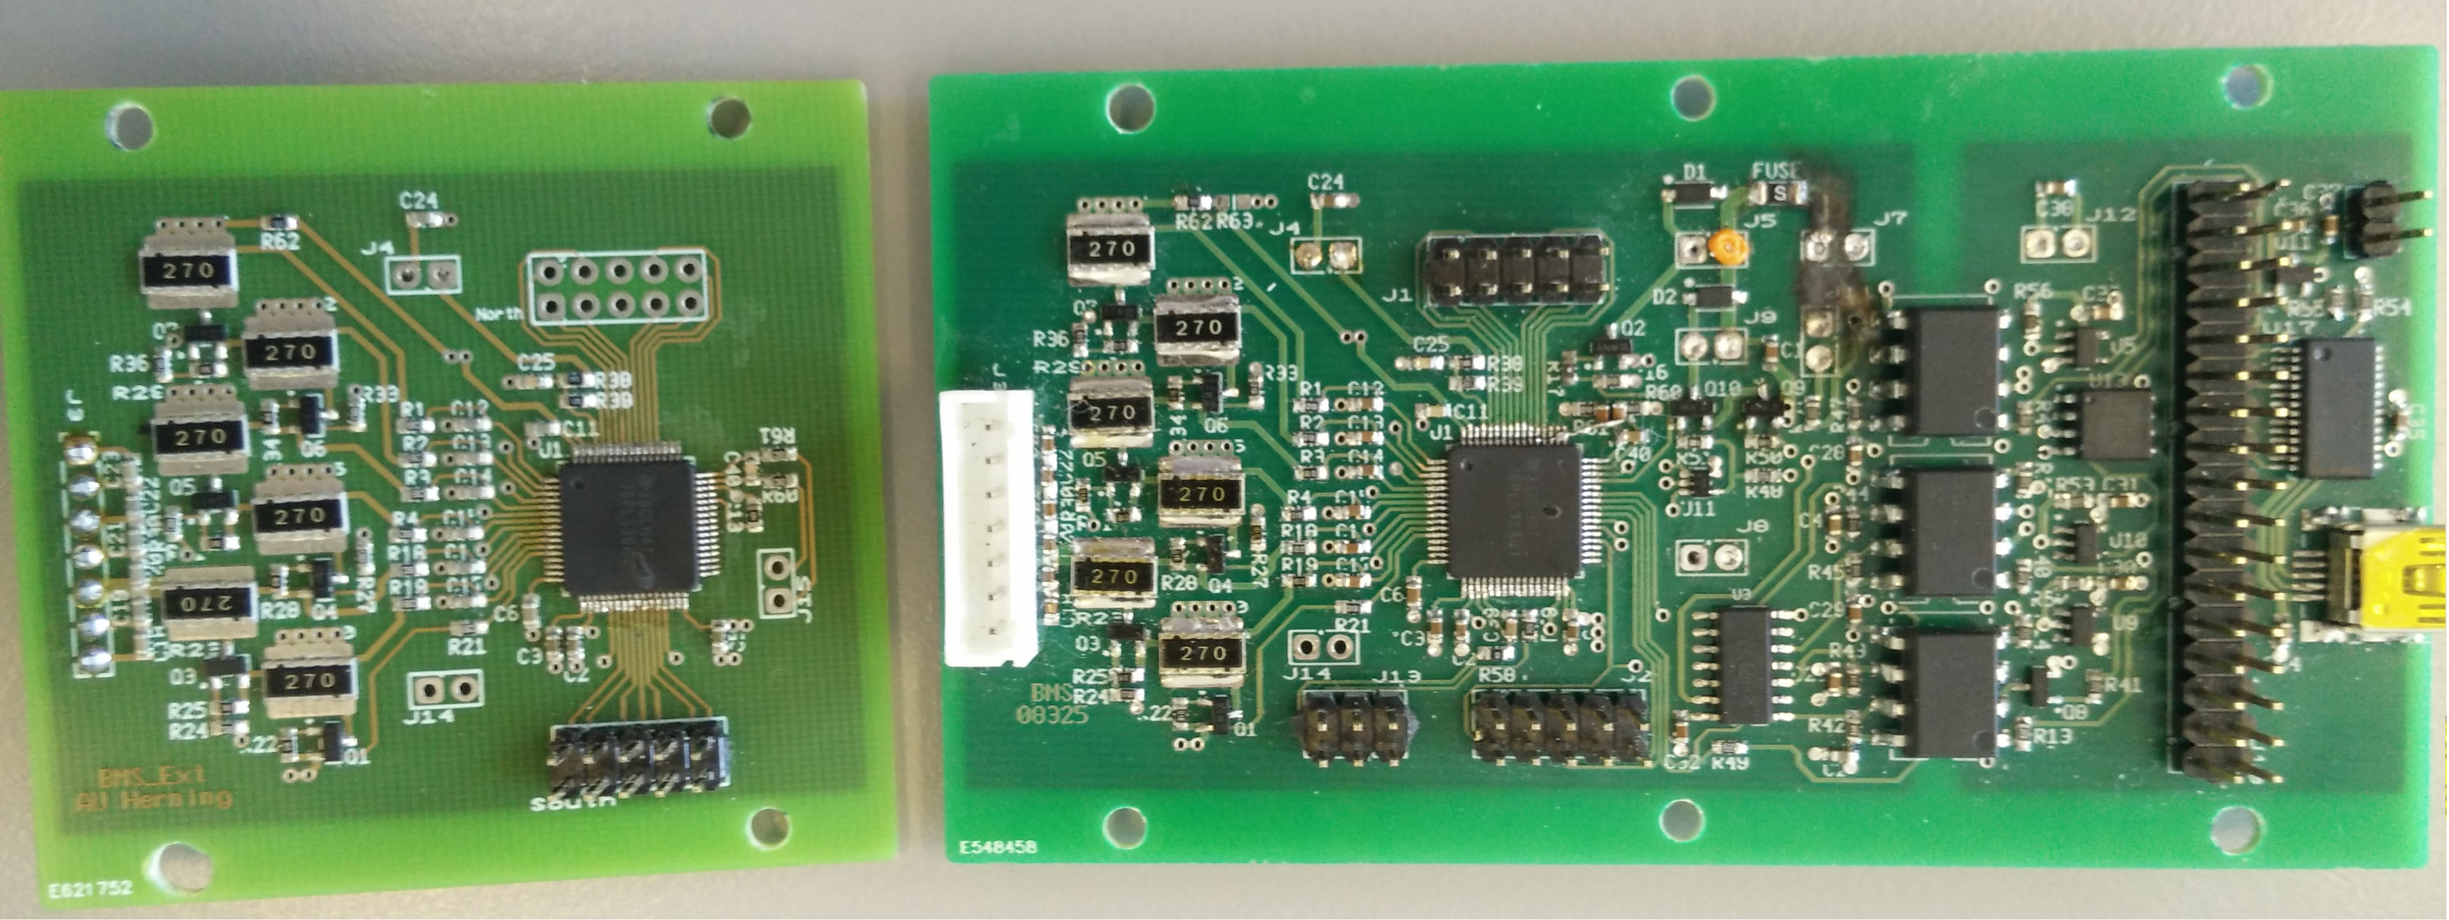
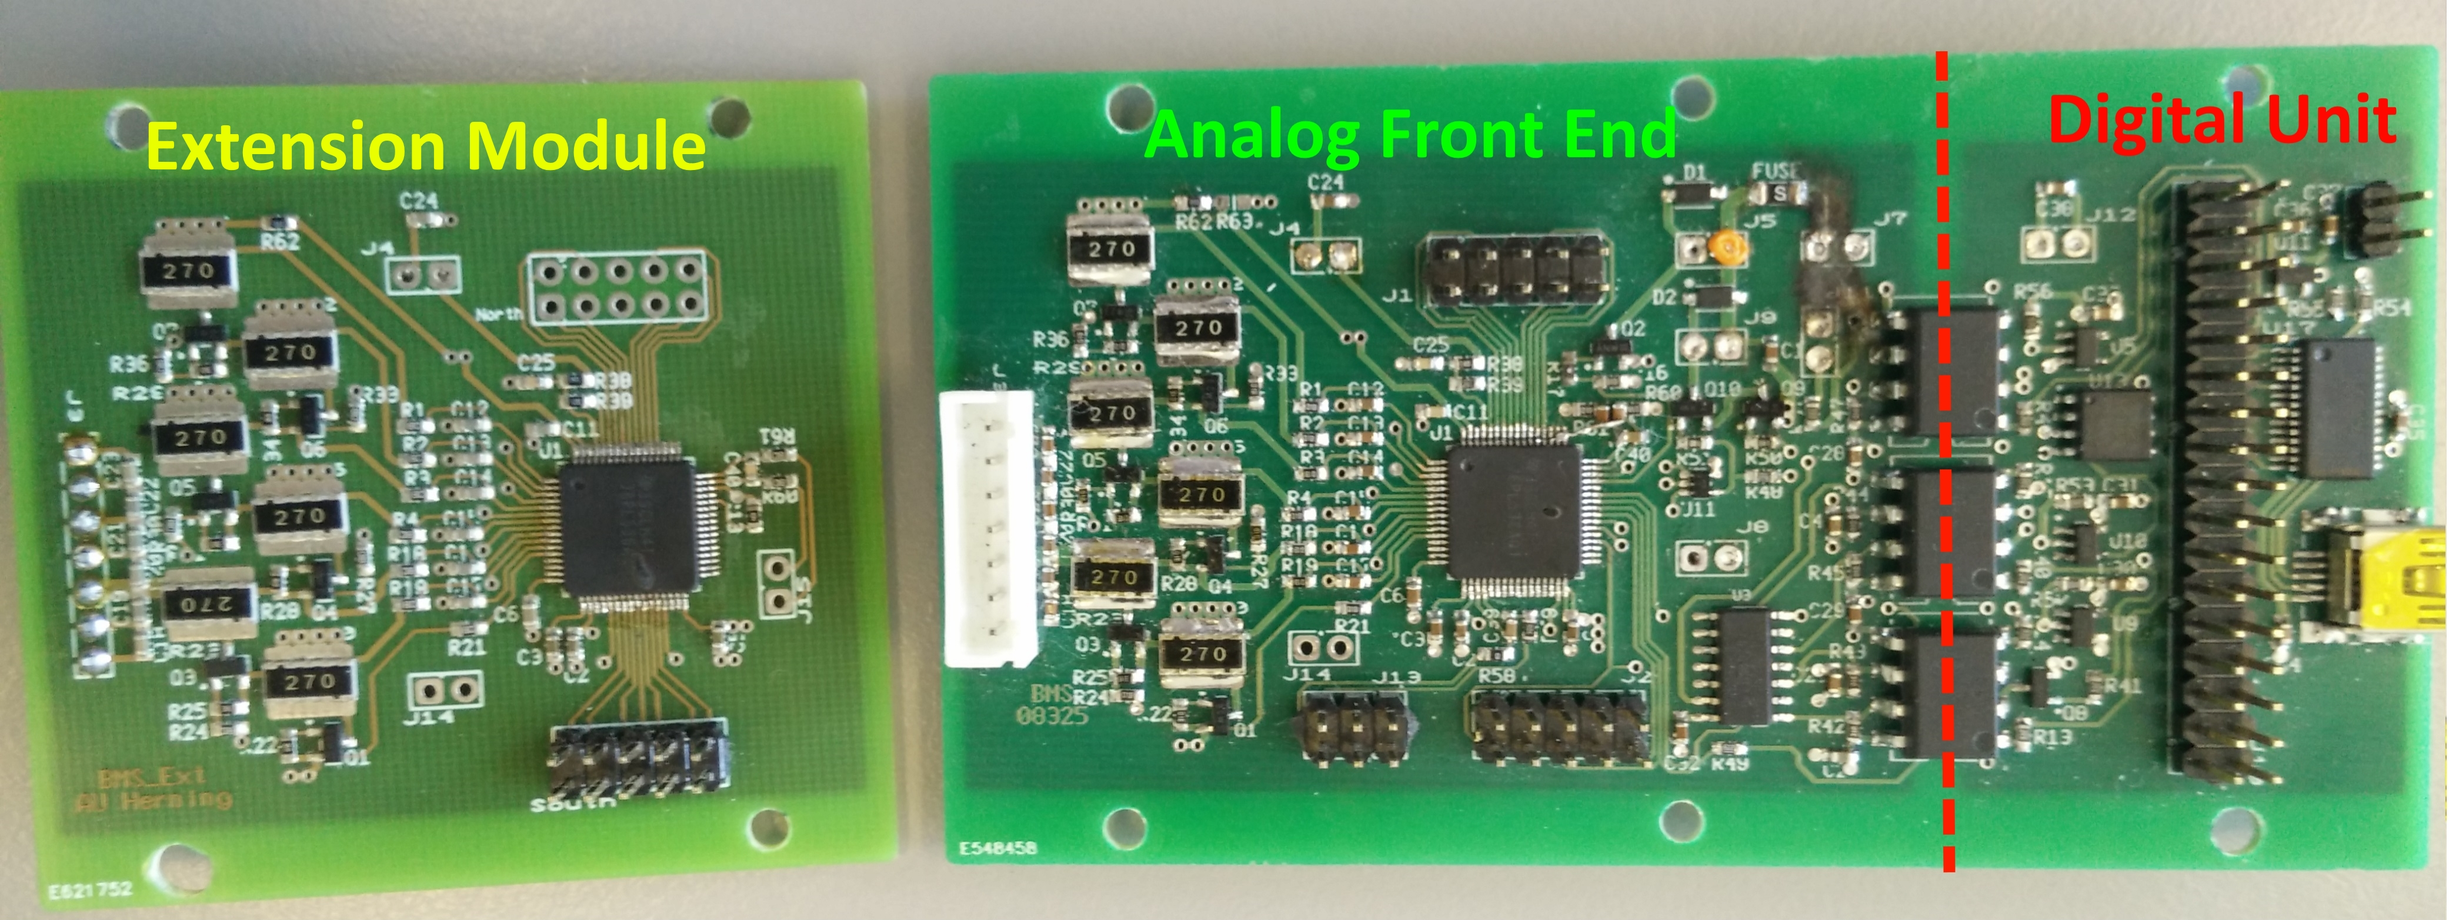
fixes

diff --git a/Latex/Documentation_AU2/Hardware/BMS.tex b/Latex/Documentation_AU2/Hardware/BMS.tex
@@ -62,10 +62,10 @@ Now every circuit block will be elaborated on its functionality and how it all f
 \subsubsection{Anti-aliasing filters and cell balancing}
 The anti-aliasing filters are there to decrease unwanted AC noise and they're placed very near their respective ADC inputs. The filters are traditional 1. order RC low-pass filters and they are implemented with respects to the Battery Monitor IC, which will be discussed in a moment.\\
 The balancing circuit is connected to the Battery Monitor IC where it has outputs that are capable of controlling balancing of the cells. This process can be initialized by the Digital Unit if given parameters exceed a specific threshold.\\
-There are two different instances where the cells can be balanced. This can be done either by connecting a charger to handle the balancing of the cells - this includes both discharging and charging. However, when no charger is connected the cells can only be balanced by discharging each individual cell. This is done to keep the cells within the recommended safe operation area, which is in between 3-4.2V.
+There are two different instances where the cells can be balanced. This can be done either by connecting a charger to handle the balancing of the cells - this includes both discharging and charging. However, when no charger is connected the cells can only be balanced by discharging each individual cell. This is done to keep the cells within the recommended SOA, which is in between 3-4.2V.
 
 \subsubsection{Battery Monitor IC}
-The heart of the BMS is the bq76PL536A-Q1 Battery Monitoring IC (new chip used since 2014 instead of the one on figure \vref{fig:frontendOverview}). It was chosen as it offers very low quiescent current, secondary protection, high precision voltage measurements and has the choice of stacking several IC's to attain support of a respective number of cells. The core functionality of this said chip is that it can receive and handle a lot of commands at the same time. As you see on figure \vref{fig:frontendOverview} it's connected to several circuits. Its job is, among other things, to receive a vast amount of data from its surroundings / connected circuits. Example of data could be data requests from the Digital Unit, cell voltages, current sensor signal, cell temperature signal balancing requests from the Digital Unit and more. With all of this data the Battery Monitoring IC converts this data through its ADC's where it sends them off to the Digital Unit. It can also perform the balancing if it receives a request. Furthermore, it is possible for it to drive the Isolation Switch, which means that in an event where the safe operation area is exceeded, it can cut off the power from the battery supply to the rest of the vehicle.
+The heart of the BMS is the bq76PL536A-Q1 Battery Monitoring IC (new chip used since 2014 instead of the one on figure \vref{fig:frontendOverview}). It was chosen as it offers very low quiescent current, secondary protection, high precision voltage measurements and has the choice of stacking several IC's to attain support of a respective number of cells. The core functionality of this said chip is that it can receive and handle a lot of commands at the same time. As you see on figure \vref{fig:frontendOverview} it's connected to several circuits. Its job is, among other things, to receive a vast amount of data from its surroundings / connected circuits. Example of data could be data requests from the Digital Unit, cell voltages, current sensor signal, cell temperature signal balancing requests from the Digital Unit and more. With all of this data the Battery Monitoring IC converts this data through its ADC's where it sends them off to the Digital Unit. It can also perform the balancing if it receives a request. Furthermore, it is possible for it to drive the Isolation Switch, which means that in an event where the SOA is exceeded, it can cut off the power from the battery supply to the rest of the vehicle.
 
 \subsubsection{Temperature sensor}
 The temperature sensor is rather self explanatory, its purpose is to measure the temperature of the batteries. To do this a Thermistor(NTC) has been used to get voltage readouts by converting the temperature from the Thermistor. The temperature thresholds are specified in AU2\_F14, which can be seen in section \vref{sec:requirements}. If the given threshold is exceeded the Isolation Switch will prevent current from flowing through it.
@@ -92,7 +92,7 @@ The purpose of this unit is to measure the amount of current flowing through the
 The choice for a current sensor was either to use a Hall current sensor or use a shunt resistor for current sensing as done in the Motor Controller System. Since the goal is to make the BMS as energy efficient as possible the choice fell on the shunt based sensor. It is a better choice when considering the power consumption for the current sensor, more on the specifications and calculations can be found in BMS 2013 documentation \cite{BMSDocumentation} (section 3.1.4).
 
 \subsection{Isolation Switch}
-The Isolation Switch has a very important functionality concerning the BMS. If anything goes wrong with the battery, which means it exceeds the Safe Operation Area of any specified thresholds, then the Isolation Switch will prevent any current from flowing through it and to the distribution block. \\
+The Isolation Switch has a very important functionality concerning the BMS. If anything goes wrong with the battery, which means it exceeds the SOA of any specified thresholds, then the Isolation Switch will prevent any current from flowing through it and to the distribution block. \\
 Since it is a requirement by the Shell Eco-Marathon committee that an automatic form of isolation of the battery from the rest of the system is required within the BMS. This leaves us with the only choice of using a relay to fulfil this requirement. Even though a relay isn't the best solution when considering low power application and consumption. If the BMS was to be implemented in a commercial application where it wouldn't be obligatory to fulfil the Shell Eco-Marathon committee's requirement, then a solution using RDS MOSFETs would be a huge benefactor when considering supply current draw.\\
 The Isolation Switch relay is of a type Normally Open(NO), which means unless it has a specific amount of voltage running through it's coils, then it won't allow current to flow through its terminals. Nonetheless, the relay is  capable of withstanding a current of up to 30 Amps and has a nominal coil rating of 48V, which is within the specified ratings by Shell's rules. Below on figure \vref{fig:BMSRelay} the physical relay can be seen.
 
@@ -103,7 +103,7 @@ The Isolation Switch relay is of a type Normally Open(NO), which means unless it
 	\label{fig:BMSRelay}
 \end{figure}
 
-The Isolation Switch works by having the Digital Unit send commands to the Analog Front End, which in return controls the Isolation Switch Driver. And the driver controls the relay. If the cells are within a safe operation area and the Digital Unit hasn't told the Analog Front End to open the relay - meaning to prevent current flowing through it - then a secondary option is available to isolate the battery manually. This functionality is implemented by the \textbf{Emergency System} (aka. Emergency button) see section \vref{sec:IBDAU2}. It serves the purpose of delivering a 0V drop over the relay's coil when the Emergency button is pressed. This will force the relay to open and seize to supply current through its terminals and therefore isolate the battery. Since the Emergency System serves a simple purpose and doesn't consist of any more than that thus it will not be described any further.
+The Isolation Switch works by having the Digital Unit send commands to the Analog Front End, which in return controls the Isolation Switch Driver. And the driver controls the relay. If the cells are within a SOA and the Digital Unit hasn't told the Analog Front End to open the relay - meaning to prevent current flowing through it - then a secondary option is available to isolate the battery manually. This functionality is implemented by the \textbf{Emergency System} (aka. Emergency button) see section \vref{sec:IBDAU2}. It serves the purpose of delivering a 0V drop over the relay's coil when the Emergency button is pressed. This will force the relay to open and seize to supply current through its terminals and therefore isolate the battery. Since the Emergency System serves a simple purpose and doesn't consist of any more than that thus it will not be described any further.
 
 \subsection{Digital Unit (HW)}
 This unit's purpose is to gather the measured values from the Analog Front End and thereafter run calculations and approximations of cell and battery parameters. If any of these parameters exceeds a specific threshold then the Digital Unit is capable of utilizing the Isolation Switch to prevent damages to the rest of the vehicle's system. The Digital Unit is capable of communicating with external units. Furthermore, the Digital Unit utilizes galvanic isolation and a DC/DC converter, which will be described in detail below. 
@@ -133,7 +133,9 @@ With low power consumption in mind, a few digital isolators based on optocoupler
 
 \subsubsection{DC/DC Converter}
 The purpose of the DC/DC Converter is to convert the battery voltage, which is expected to be around 44.4V nominal, to a lower voltage that is usable by the other components in the Digital unit. This includes the Galvanic Isolation and micro controller circuit with its included parts. \\
-Since power consumption is a very important factor in the design of the BMS, several DC/DC converters were examined to see if it was possible to find a suitable prefabricated and commercial DC/DC converter. The results of this inspection and a more detailed description of the converter can be found in the BMS 2013 Documentation \cite{BMSDocumentation} (section 3.1.6.2). Moreover, please note that a newer DC/DC Converter than in the 2013 BMS Documentation has been used - More details on the changes done since the 2013 documentation can be found in section \fxnote{reference to CHANGES DOCUMENTATION (JENS) from BMS 2013 to BMS 2014}.  
+Since power consumption is a very important factor in the design of the BMS, several DC/DC converters were examined to see if it was possible to find a suitable prefabricated and commercial DC/DC converter. The results of this inspection and a more detailed description of the converter can be found in the BMS 2013 Documentation \cite{BMSDocumentation} (section 3.1.6.2). Moreover, please note that a newer DC/DC Converter than in the 2013 BMS Documentation has been used. 
+
+
 
 \subsubsection{MCU with CAN, USB and F-RAM}
 This unit is the brains of the operation. It consists of vital parts to make the BMS function properly. It has a micro controller that has an implemented CAN controller. It also has non-volatile memory, which is in the form of Ferroelectric Random Access Memory (F-RAM). Nonetheless, a USB interface is also part of this unit, which makes it possible to directly debug the BMS through the micro controller. For more info on how to use the USB interface and how to program the BMS see section \vref{sec:BMSDebugging}.
@@ -149,10 +151,10 @@ The micro controller unit is a OLIMEX AVR-CAN development board. It would have b
 \end{figure}
 
 On figure \vref{fig:BMSCANProto} you can see the CAN protocol, which is based on the Original Standard Traction Pack. Since the BMS was first implemented with a CAN bus it was found that it would be a good idea to perform heavy duty data logging on the Motor Controller via CAN bus, therefore a CAN transceiver and software to support it was implemented on the Motor Controller. For more info about the Can-transceiver see section \vref{sec:CAN-Tranceiver}. A more detailed description of the CAN protocol can be found in the BMS 2013 Documentation \cite{BMSDocumentation} (section 1.5.3.1).\\
-Otherwise the AVR-CAN is mainly used as a control unit, since it performs calculations and sends commands to the Analog Front End all whilst monitoring different thresholds for safe operation areas for the batteries. The AVR-CAN is mainly used for programming and this is where all the BMS Software is stored and executed by the AT90CAN128 IC which is contained on the OLIMEX AVR-CAN development board. The software functionality will be described in the BMS Software chapter. \fxnote{Godt med krydsreferencer til forskellige dokumenter - burde være include(xr) ... ?} %\externaldocument{BMSSoftware}.. 
+Otherwise the AVR-CAN is mainly used as a control unit, since it performs calculations and sends commands to the Analog Front End all whilst monitoring different thresholds for SOAs for the batteries. The AVR-CAN is mainly used for programming and this is where all the BMS Software is stored and executed by the AT90CAN128 IC which is contained on the OLIMEX AVR-CAN development board. The software functionality will be described in the BMS Software chapter.
 
 \textbf{F-RAM}\\
-As mentioned earlier it was required by the 2013 requirements (BMS\_F.5)\cite{BMSDocumentation} (section 1.5.1.2) that the BMS must be able to store the most critical information on internal memory for the ability to read the data on the USB interface or SD-card on the Motor Controller. Since the AVR-CAN module didn't have enough on-board memory a few options were considered for implementing a solution. EEPROM was considered since it is non-volatile and cheap but offers a limited amount of write cycles as well as the power consumption is fairly higher than the F-RAM. However, the solution is F-RAM, which is non-volatile has a lot of write cycles and is fairly low power between write cycles. Moreover, please note that a newer F-RAM module than in the 2013 BMS Documentation has been used - More details on the changes done since the 2013 documentation can be found in section \fxnote{reference to CHANGES DOCUMENTATION (JENS) from BMS 2013 to BMS 2014}.  
+As mentioned earlier it was required by the 2013 requirements (BMS\_F.5)\cite{BMSDocumentation} (section 1.5.1.2) that the BMS must be able to store the most critical information on internal memory for the ability to read the data on the USB interface or SD-card on the Motor Controller. Since the AVR-CAN module didn't have enough on-board memory a few options were considered for implementing a solution. EEPROM was considered since it is non-volatile and cheap but offers a limited amount of write cycles as well as the power consumption is fairly higher than the F-RAM. However, the solution is F-RAM, which is non-volatile has a lot of write cycles and is fairly low power between write cycles. Moreover, please note that a newer F-RAM module than in the 2013 BMS Documentation has been bought, because the used F-RAM component in the BMS 2013 Documentation is now obsolete. However, it will only be used on the duplicate PCB.
 
 \subsection{Unit test}
 In this section a description of each of the elaborated units will be given below. 
@@ -188,7 +190,7 @@ The next course of action was to approach the surrounding components. We meant t
 The testing was done only with the Analog Front End, since we could factor out the Extension Module by only measuring on one battery and try to get a readout from that approach. The hours spent on debugging the Analog Front End as well as getting help from the School's workshop didn't result in any working condition of the Analog Front End. Therefore when the deadline of this documentation and the corresponding report was approaching, it was decided to focus on other things and try to find a solution after the deadline, but before the departure for the Shell Eco-Marathon competition.
 
 \subsubsection{Current Sensor}
-The Current Sensor is meant to be functioning giving the first tests at a very early stage. However, the Analog Front End posed a lot of problem and those haven't been resolved even after very long hours of debugging. Therefore, it wasn't possible to test this unit. However, if the BMS was fully functional a way to test the current sensor would be to firstly identify the problem. Lets say we applied a constant current load of 4 Amps to the BMS. This would result in a specific result and data output from the Analog Front End. These data could then be examined by using the USB interface and confirm the values. If for instance different values were output the code for the calculation for the current sensor as well as individual components would need to be investigated. A good start would be to replace the OP-AMPs as well as the LDO since the rest of the components contained in the circuit\cite{BMSDocumentation} (section 3.1.4) are merely passive components. Tests could be done for continuity and expected voltage levels in the circuit with a digital multimeter. These tests should be sufficient enough to test the current sensor since it is a rather small circuit with a basic functionality. In a worst case scenario a duplicate should be made on an entirely new PCB and then tested individually before being implemented into the BMS.    
+The Current Sensor is meant to be functioning giving the first tests at a very early stage. However, the Analog Front End posed a lot of problem and those haven't been resolved even after very long hours of debugging. Therefore, it wasn't possible to test this unit. However, if the BMS was fully functional a way to test the current sensor would be to firstly identify the problem. Lets say we applied a constant current load of 4 Amps to the BMS. This would result in a specific result and data output from the Analog Front End. These data could then be examined by using the USB interface and confirm the values. If for instance different values were output the code for the calculation for the current sensor as well as individual components would need to be investigated. A good start would be to replace the OP-AMPs as well as the low-dropout regulator(LDO) since the rest of the components contained in the circuit\cite{BMSDocumentation} (section 3.1.4) are merely passive components. Tests could be done for continuity and expected voltage levels in the circuit with a digital multimeter. These tests should be sufficient enough to test the current sensor since it is a rather small circuit with a basic functionality. In a worst case scenario a duplicate should be made on an entirely new PCB and then tested individually before being implemented into the BMS.    
 
 \subsection{Programming Quick Guide}
 \label{sec:BMSDebugging}
@@ -206,8 +208,8 @@ Tools required to program the BMS are listed here:
 		\item USB-A to USB mini cable (used to debug the BMS and see readouts from Tera Term).
 	\end{itemize}
 	
-After you have acquired these tools you are ready to proceed. First you connect the USB cable from your computer to the BMS front end. Then you launch your chosen hyper terminal and select the COM-port which the BMS has. Afterwards you configure the hyper terminal, where the two most important settings are the baud rate and the way you receive from the BMS. Set the baud rate to 38400, 1 stop bit, 8 data bits and 0 parity bits. Then you specify the newline settings so that you receive both CR+LF else select AUTO. In Tera Term you go to Setup->Terminal->New-line to perform these changes. 
-Now you can attach the two batteries to the BMS (remember to plug in both the main plug and the cell plug to the front end), once this is done you're ready to receive data from the front end whilst a successful and working condition of the BMS USB interface should look something like in the figure below \vref{fig:BMSTeraTerm}. 
+After you have acquired these tools you are ready to proceed. First you connect the USB cable from your computer to the BMSs Digital Unit USB interface \vref{fig:BMSPCBS}. Then you launch your chosen hyper terminal and select the COM-port which the BMS has. Afterwards you configure the hyper terminal, where the two most important settings are the baud rate and the way you receive from the BMS. Set the baud rate to 38400, 1 stop bit, 8 data bits and 0 parity bits. Then you specify the newline settings so that you receive both CR+LF else select AUTO. In Tera Term you go to Setup->Terminal->New-line to perform these changes. 
+Now you can attach the two batteries to the BMS (remember to plug in both the main plug and the cell plug to the Analog Front End), once this is done you're ready to receive data from the Analog Front End whilst a successful and working condition of the BMS USB interface should look something like in the figure below \vref{fig:BMSTeraTerm}. 
 \begin{figure}[H]
 	\centering
 	\includegraphics[width=0.6\linewidth]{Hardware/Pictures/BMS_teraterm}
